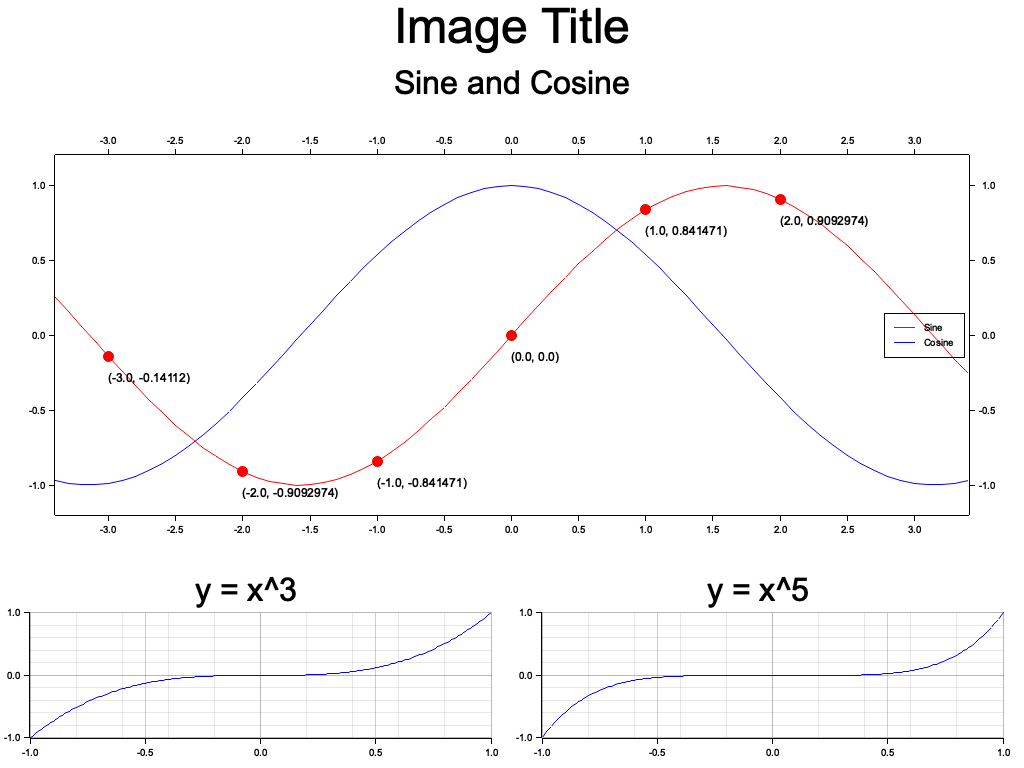
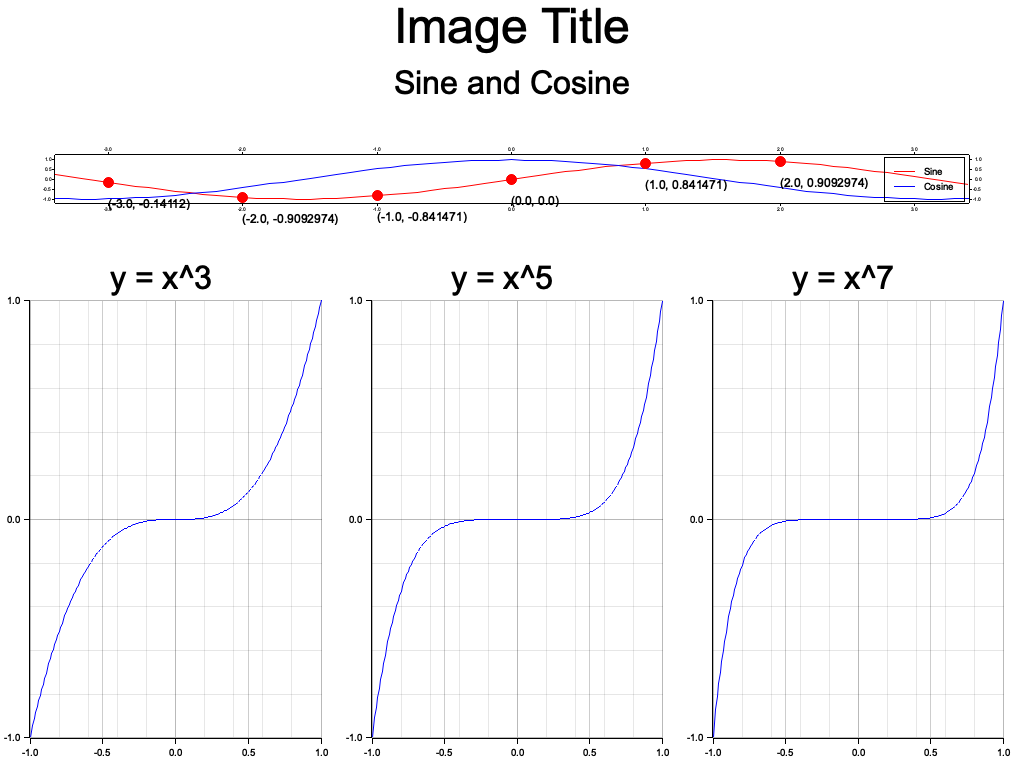
feat:chart03

diff --git a/src/chart/chart03.rs b/src/chart/chart03.rs
@@ -4,8 +4,11 @@ pub fn main(){
     let root_area = BitMapBackend::new(OUT_FILE_NAME, (1024, 768)).into_drawing_area();
     root_area.fill(&WHITE).unwrap();//배경
     //title
-    let root_area = root_area.titled("Image Title", ("sans-serif", 60)).unwrap();;
-    let (upper, lower) = root_area.split_vertically(512);
+    
+    let root_area = root_area.titled("Image Title", ("sans-serif", 60)).unwrap();
+    //수직방향으로 나누기 처음영역이 512
+    let (upper, lower) = root_area.split_vertically(200);
+    //범위설정
     let x_axis = (-3.4f32..3.4).step(0.1);
     let mut cc = ChartBuilder::on(&upper)
     .margin(5)
@@ -20,17 +23,15 @@ pub fn main(){
 //configure_mesh:눈금 및 그리드 설정
 //x_labels:x축에 사용되는 눈금의 개수 설정
 cc.configure_mesh()
-    .x_labels(20)
-    .y_labels(10)
     .disable_mesh()
     .x_label_formatter(&|v| format!("{:.1}", v))
     .y_label_formatter(&|v| format!("{:.1}", v))
     .draw().unwrap();
-
+//Sine
 cc.draw_series(LineSeries::new(x_axis.values().map(|x| (x, x.sin())), &RED)).unwrap()
     .label("Sine")
     .legend(|(x, y)| PathElement::new(vec![(x, y), (x + 20, y)], RED));
-
+//Cosin
 cc.draw_series(LineSeries::new(
     x_axis.values().map(|x| (x, x.cos())),
     &BLUE,
@@ -51,7 +52,8 @@ cc.draw_series(PointSeries::of_element(
     },
 )).unwrap();
 /*=========================================================== */
-let drawing_areas = lower.split_evenly((1, 2));
+//1행 2열로 나누기
+let drawing_areas = lower.split_evenly((1, 3));
 
 for (drawing_area, idx) in drawing_areas.iter().zip(1..) {
     let mut cc = ChartBuilder::on(drawing_area)
@@ -76,6 +78,6 @@ for (drawing_area, idx) in drawing_areas.iter().zip(1..) {
 }
 
 // To avoid the IO failure being ignored silently, we manually call the present function
-root_area.present().expect("Unable to write result to file, please make sure 'plotters-doc-data' dir exists under current dir");
+root_area.present().unwrap();
 println!("Result has been saved to {}", OUT_FILE_NAME);
 }
